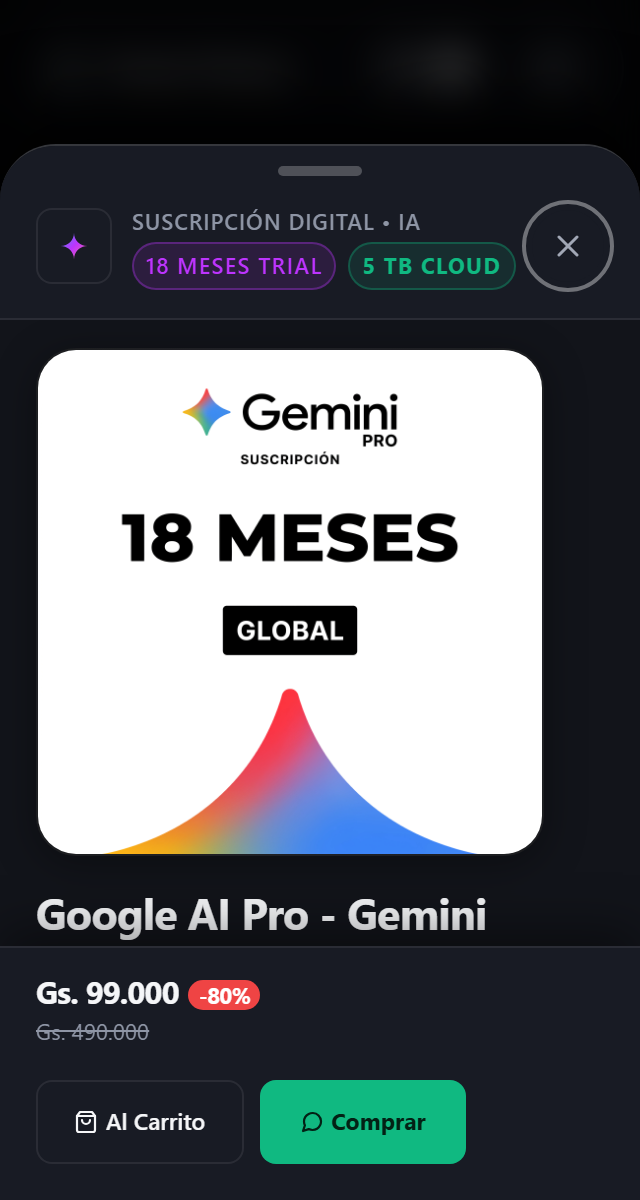
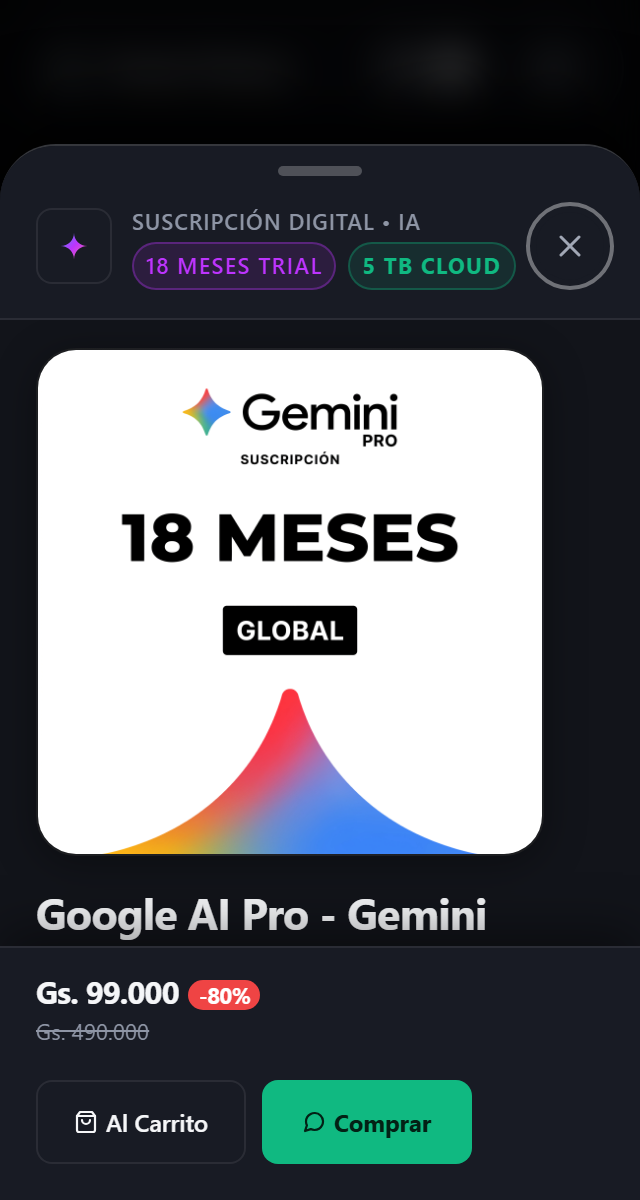
style: redesign mobile cart drawer for compact layout and improved ergonomics

diff --git a/index.html b/index.html
@@ -4335,7 +4335,7 @@
         height: 12px;
       }
 
-      /* Cart Slide-Over Drawer: Full screen on small mobile screens */
+      /* Cart Slide-Over Drawer: Full screen & streamlined on mobile */
       dialog#cartDrawer {
         max-width: 100%;
         width: 100% !important;
@@ -4344,17 +4344,203 @@
         border-left: none;
       }
       .drawer-header {
-        padding: calc(16px + var(--sat)) 20px 16px;
+        padding: calc(10px + var(--sat)) 16px 10px;
+        border-bottom: 1px solid var(--border-subtle);
       }
+      .drawer-title-wrap {
+        gap: 8px;
+        font-size: 0.98rem;
+      }
+      .drawer-title-wrap svg {
+        width: 18px;
+        height: 18px;
+      }
+      .drawer-close-btn {
+        width: 34px;
+        height: 34px;
+      }
+
+      /* Ultra-compact reward progress bar on mobile */
+      .cart-reward-container {
+        padding: 6px 14px 7px;
+        gap: 4px;
+      }
+      .reward-status-row {
+        gap: 8px;
+      }
+      .reward-icon-wrap {
+        width: 20px;
+        height: 20px;
+      }
+      .reward-icon-wrap svg {
+        width: 11px;
+        height: 11px;
+      }
+      .reward-status-text {
+        font-size: var(--text-label);
+        line-height: 1.35;
+      }
+      .reward-progress-track {
+        height: 3px;
+      }
+
+      /* Streamlined cart items list on mobile */
       .drawer-content {
-        padding: 16px 18px;
+        padding: 10px 14px;
+        gap: 8px;
       }
+
+      .cart-delivery-pill {
+        padding: 6px 10px;
+        font-size: var(--text-label);
+        gap: 6px;
+        line-height: 1.35;
+        margin-bottom: 2px !important;
+      }
+      .cart-delivery-pill svg {
+        width: 13px;
+        height: 13px;
+      }
+
+      /* 2-row ergonomic mobile card: no overflow, full title visibility */
+      .cart-item-row {
+        display: grid;
+        grid-template-columns: 44px 1fr;
+        grid-template-rows: auto auto;
+        column-gap: 10px;
+        row-gap: 6px;
+        padding: 9px 11px;
+        border-radius: var(--radius-sm);
+        align-items: center;
+      }
+      .cart-item-thumb {
+        grid-column: 1;
+        grid-row: 1 / 3;
+        width: 44px;
+        height: 44px;
+        align-self: center;
+      }
+      .cart-item-details {
+        grid-column: 2;
+        grid-row: 1;
+        min-width: 0;
+      }
+      .cart-item-name {
+        font-size: 0.84rem;
+        font-weight: 600;
+        margin-bottom: 2px;
+        white-space: nowrap;
+        overflow: hidden;
+        text-overflow: ellipsis;
+      }
+      .cart-item-type-badge {
+        font-size: var(--text-label);
+        padding: 1px 6px;
+      }
+      .cart-item-price-line {
+        display: flex;
+        align-items: center;
+        gap: 6px;
+        flex-wrap: nowrap;
+        white-space: nowrap;
+        margin-top: 1px;
+      }
+      .cart-item-unit-price {
+        font-size: 0.88rem;
+        font-weight: 700;
+        white-space: nowrap;
+      }
+      .cart-item-original-price {
+        font-size: var(--text-label);
+        white-space: nowrap;
+      }
+      .cart-item-discount-pill {
+        font-size: var(--text-label);
+        padding: 1px 6px;
+        white-space: nowrap !important;
+        line-height: 1.35;
+      }
+      .cart-item-actions {
+        grid-column: 2;
+        grid-row: 2;
+        display: flex;
+        align-items: center;
+        justify-content: space-between;
+        width: 100%;
+        padding-top: 2px;
+      }
+      .qty-btn {
+        width: 28px;
+        height: 28px;
+        min-width: 28px;
+        min-height: 28px;
+        font-size: 0.80rem;
+      }
+      .qty-number {
+        font-size: 0.82rem;
+        min-width: 18px;
+      }
+      .item-remove-btn {
+        padding: 4px 6px;
+        min-width: 28px;
+        min-height: 28px;
+      }
+
+      /* Compact, ergonomic footer: leaves ample room for cart content */
       .drawer-footer {
-        padding: 16px 18px calc(24px + var(--sab));
+        padding: 9px 14px calc(10px + var(--sab));
+        gap: 6px;
+        background: var(--bg-surface);
+        border-top: 1px solid var(--border-subtle);
+      }
+      .cart-savings-banner {
+        padding: 5px 8px;
+        gap: 6px;
+        border-radius: var(--radius-sm);
+        font-size: var(--text-label);
+        line-height: 1.35;
+      }
+      .cart-savings-banner svg {
+        width: 13px;
+        height: 13px;
+      }
+      .regular-price-row {
+        font-size: var(--text-label);
+        color: var(--text-tertiary);
+      }
+      .drawer-summary-row {
+        display: flex;
+        align-items: baseline;
+        justify-content: space-between;
+      }
+      .summary-label {
+        font-size: 0.84rem;
+        color: var(--text-secondary);
+      }
+      .summary-total-val {
+        font-size: 1.20rem;
+        font-weight: 700;
+        letter-spacing: -0.01em;
+        color: var(--text-primary);
       }
       .btn-checkout-whatsapp {
-        height: 52px;
-        font-size: 1rem;
+        height: 42px;
+        min-height: 42px;
+        font-size: 0.88rem;
+        font-weight: 700;
+        gap: 6px;
+        border-radius: var(--radius-pill);
+        box-shadow: 0 2px 8px rgba(0, 0, 0, 0.35);
+      }
+      .btn-checkout-whatsapp svg {
+        width: 16px;
+        height: 16px;
+      }
+      .checkout-guarantee-note {
+        font-size: var(--text-label);
+        line-height: 1.35;
+        margin-top: 0;
+        color: var(--text-tertiary);
       }
 
       /* Apple Bottom Sheet Modal on Mobile (Docked to bottom edge) */
@@ -4859,12 +5045,14 @@
         font-size: 0.96rem;
       }
       .btn-direct-buy {
-        height: 32px;
-        font-size: 0.72rem;
+        height: 38px;
+        min-height: 38px;
+        font-size: 0.74rem;
       }
       .btn-add-cart {
-        height: 32px;
-        font-size: 0.72rem;
+        height: 38px;
+        min-height: 38px;
+        font-size: 0.74rem;
       }
       .site-header {
         padding: 0 8px;
@@ -4904,13 +5092,15 @@
         font-size: 0.88rem;
       }
       .btn-phys-details {
-        height: 32px;
-        font-size: 0.70rem;
+        height: 38px;
+        min-height: 38px;
+        font-size: 0.72rem;
       }
       .btn-phys-cart {
-        height: 32px;
-        width: 32px;
-        min-width: 32px;
+        height: 38px;
+        width: 38px;
+        min-width: 38px;
+        min-height: 38px;
       }
       .physical-modal-grid {
         gap: 6px !important;

diff --git a/scratch/test_cart_mobile.js b/scratch/test_cart_mobile.js
@@ -1,0 +1,50 @@
+const { chromium } = require('playwright');
+const path = require('path');
+
+async function testCart() {
+  const browser = await chromium.launch({ headless: true });
+  const context = await browser.newContext({
+    viewport: { width: 390, height: 844 },
+    deviceScaleFactor: 2,
+  });
+  const page = await context.newPage();
+  await page.goto('http://localhost:3000/', { waitUntil: 'networkidle' });
+
+  // Add 3 items to cart to test multi-item visibility
+  await page.evaluate(() => {
+    addToCart('google-ai-pro-gemini-18m', 2);
+    addToCart('assetto-corsa-pc-steam', 1);
+    addToCart('gamepad-bluetooth-multiplataforma', 1);
+    openCartDrawer();
+  });
+  await page.waitForTimeout(500);
+
+  const screenshotPath = path.join(__dirname, 'screenshots', 'mobile-390-cart-test.png');
+  await page.screenshot({ path: screenshotPath });
+  console.log('Saved screenshot to:', screenshotPath);
+
+  // Measure heights of drawer elements
+  const metrics = await page.evaluate(() => {
+    const drawer = document.getElementById('cartDrawer');
+    const header = drawer.querySelector('.drawer-header');
+    const reward = drawer.querySelector('.cart-reward-container');
+    const content = drawer.querySelector('.drawer-content');
+    const footer = drawer.querySelector('.drawer-footer');
+    return {
+      windowHeight: window.innerHeight,
+      drawerHeight: Math.round(drawer.getBoundingClientRect().height),
+      headerHeight: Math.round(header ? header.getBoundingClientRect().height : 0),
+      rewardHeight: Math.round(reward ? reward.getBoundingClientRect().height : 0),
+      contentHeight: Math.round(content ? content.getBoundingClientRect().height : 0),
+      footerHeight: Math.round(footer ? footer.getBoundingClientRect().height : 0),
+    };
+  });
+  console.log('Metrics before/current:', JSON.stringify(metrics, null, 2));
+
+  await browser.close();
+}
+
+testCart().catch(err => {
+  console.error(err);
+  process.exit(1);
+});

diff --git a/scratch/test_cart_desktop.js b/scratch/test_cart_desktop.js
@@ -1,0 +1,30 @@
+const { chromium } = require('playwright');
+const path = require('path');
+
+async function testDesktopCart() {
+  const browser = await chromium.launch({ headless: true });
+  const context = await browser.newContext({
+    viewport: { width: 1440, height: 900 },
+    deviceScaleFactor: 2,
+  });
+  const page = await context.newPage();
+  await page.goto('http://localhost:3000/', { waitUntil: 'networkidle' });
+
+  await page.evaluate(() => {
+    addToCart('google-ai-pro-gemini-18m', 2);
+    addToCart('assetto-corsa-pc-steam', 1);
+    openCartDrawer();
+  });
+  await page.waitForTimeout(500);
+
+  const screenshotPath = path.join(__dirname, 'screenshots', 'desktop-1440-cart-verify.png');
+  await page.screenshot({ path: screenshotPath });
+  console.log('Saved desktop verification screenshot to:', screenshotPath);
+
+  await browser.close();
+}
+
+testDesktopCart().catch(err => {
+  console.error(err);
+  process.exit(1);
+});
